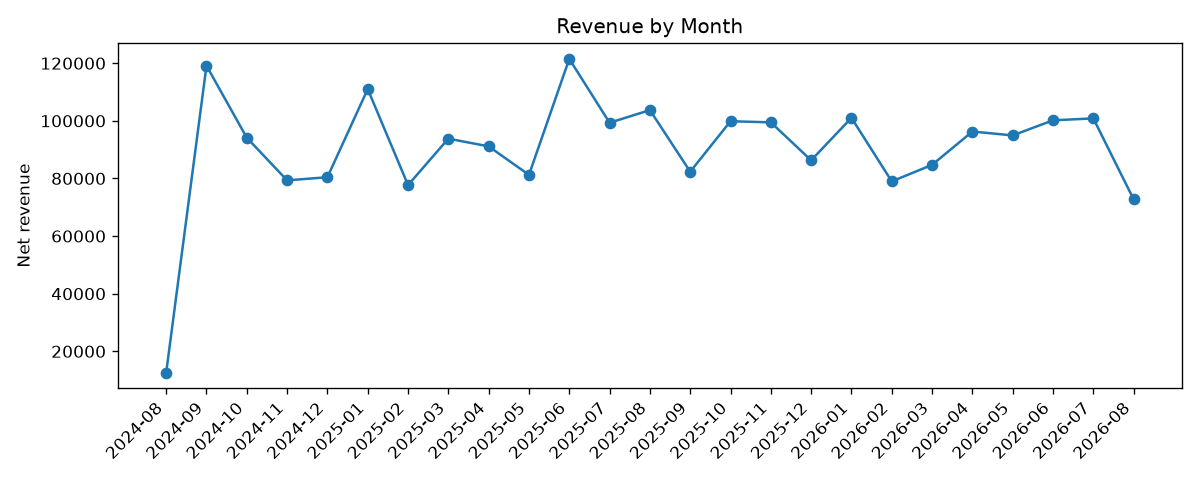
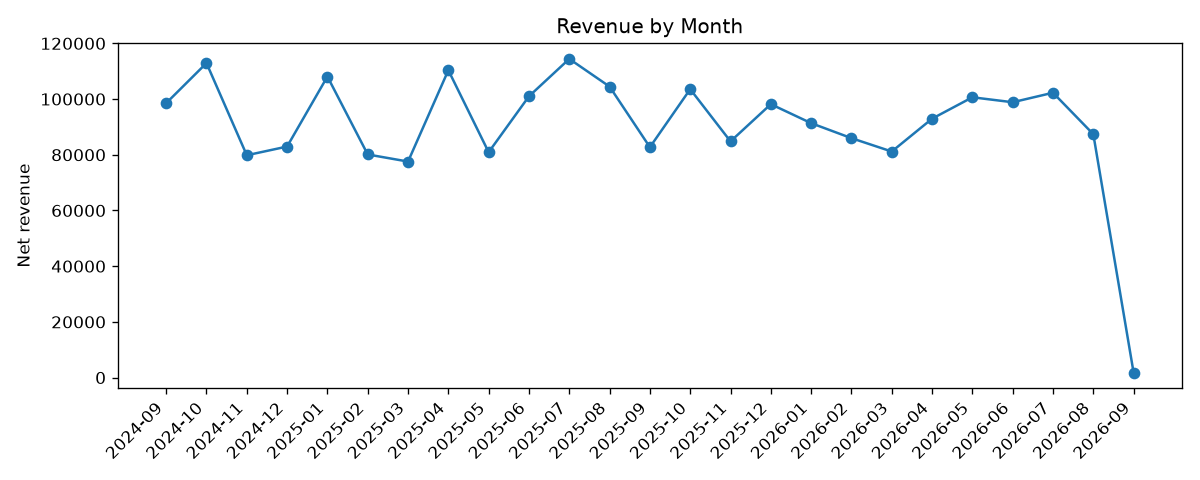
chore: quick polish pass

diff --git a/src/load.py b/src/load.py
@@ -18,10 +18,8 @@ class Loader:
         self.duckdb_path = duckdb_path
 
     def create_schema(self, connection):
-        # Drop child before parents, then recreate from the schema script,
-        # so tables are always empty before the load - DuckDB won't allow
-        # deleting dimension rows still referenced by fact_sales, even
-        # after fact_sales itself was just cleared in the same transaction.
+        # drop child before parents, then recreate - DuckDB won't let you
+        # delete a dim row still referenced by fact_sales, even mid-transaction
         connection.execute("DROP TABLE IF EXISTS fact_sales")
         for table_name in DIMENSION_TABLES:
             connection.execute(f"DROP TABLE IF EXISTS {table_name}")
@@ -29,21 +27,15 @@ class Loader:
         connection.execute(schema_sql)
 
     def _create_indexes(self, connection):
-        # Built after the load, not before: an index gets updated on every
-        # insert, so indexing empty tables and then bulk-loading is cheaper
-        # than maintaining the index across thousands of individual inserts.
+        # built after the load - cheaper than updating the index on every insert
         connection.execute("CREATE INDEX IF NOT EXISTS idx_fact_date ON fact_sales(date_key)")
         connection.execute("CREATE INDEX IF NOT EXISTS idx_fact_product ON fact_sales(product_key)")
         connection.execute("CREATE INDEX IF NOT EXISTS idx_fact_customer ON fact_sales(customer_key)")
         connection.execute("CREATE INDEX IF NOT EXISTS idx_fact_channel ON fact_sales(channel_key)")
 
     def load_all(self, dim_date, dim_product, dim_customer, dim_channel, fact_sales):
-        """
-        Load every table into DuckDB inside a single transaction, so the
-        warehouse either ends up fully updated or not touched at all - if
-        anything fails partway through, we roll back instead of leaving
-        old and new data mixed together.
-        """
+        # everything happens in one transaction - either it all loads, or
+        # nothing does, no half-updated warehouse
         dimension_frames = {
             "dim_date": dim_date,
             "dim_product": dim_product,

diff --git a/src/extract.py b/src/extract.py
@@ -19,8 +19,7 @@ class Extractor:
         self.sqlite_path = sqlite_path
 
     def _read_table(self, table_name):
-        # New connection per call - sqlite3 connections aren't safe to
-        # share across threads, and extract_all() calls this from a pool.
+        # new connection per call, sqlite3 connections aren't thread-safe
         connection = sqlite3.connect(self.sqlite_path)
         try:
             dataframe = pd.read_sql(f"SELECT * FROM {table_name}", connection)
@@ -47,17 +46,8 @@ class Extractor:
         return self._read_table("order_items")
 
     def extract_all(self):
-        """
-        Read all six tables at once using a thread pool.
-
-        This helps because reading from SQLite is I/O-bound - most of the
-        time a thread spends here is waiting on disk, not running Python.
-        CPython releases the GIL while a thread waits on I/O, so the reads
-        overlap instead of running one after another. This wouldn't help
-        for CPU-bound work (e.g. crunching numbers in a loop), since the
-        GIL only lets one thread run Python bytecode at a time - that case
-        would need multiprocessing instead.
-        """
+        # reads are I/O-bound (waiting on SQLite), so threads help here
+        # even with the GIL - wouldn't be true for CPU-bound work
         results = {}
         with ThreadPoolExecutor(max_workers=len(TABLE_NAMES)) as executor:
             future_to_table = {

diff --git a/src/transform.py b/src/transform.py
@@ -33,10 +33,7 @@ class Transformer:
         return pd.DataFrame(rows)
 
     def build_dim_product(self, products_df, categories_df):
-        """
-        Pull the category name onto each product row (denormalization),
-        so sales can later be grouped by category with no extra JOIN.
-        """
+        # denormalize: copy the category name onto the product row
         categories_renamed = categories_df.rename(columns={"name": "category"})
         merged = products_df.merge(categories_renamed, on="category_id", how="left")
 
@@ -55,14 +52,8 @@ class Transformer:
         return dim_channel
 
     def build_fact_sales(self, order_items_df, orders_df, dim_date, dim_product, dim_customer, dim_channel):
-        """
-        One row per order_item, with dimension keys and the sales measures.
-        Only "completed" orders count as sales - pending/cancelled orders
-        aren't real revenue.
-        """
+        # only completed orders count as sales
         completed_orders = orders_df[orders_df["status"] == "completed"]
-
-        # inner join also drops order_items whose order wasn't completed
         fact = order_items_df.merge(completed_orders, on="order_id", how="inner")
 
         fact["date_key"] = pd.to_datetime(fact["order_date"]).dt.strftime("%Y%m%d").astype(int)

diff --git a/data/generate_data.py b/data/generate_data.py
@@ -194,7 +194,6 @@ def insert_customers(connection, num_customers):
 
 
 def insert_products(connection, num_products, category_ids):
-    """Insert random products and return a lookup list needed later for order_items."""
     cursor = connection.cursor()
     products = []
     for product_id in range(1, num_products + 1):
@@ -228,7 +227,6 @@ def insert_products(connection, num_products, category_ids):
 
 
 def insert_orders_and_items(connection, num_orders, customer_ids, channel_ids, products):
-    """Insert random orders, each with 1-4 order_items, spread over the last 2 years."""
     cursor = connection.cursor()
     today = date.today()
     two_years_ago = today - timedelta(days=730)
@@ -268,7 +266,6 @@ def insert_orders_and_items(connection, num_orders, customer_ids, channel_ids, p
 
 
 def export_tables_to_csv(connection, csv_dir):
-    """Write every OLTP table to its own CSV file in csv_dir."""
     csv_dir.mkdir(parents=True, exist_ok=True)
     table_names = ["categories", "channels", "customers", "products", "orders", "order_items"]
 

diff --git a/src/ai_insights.py b/src/ai_insights.py
@@ -21,12 +21,9 @@ MAX_ROWS_PER_QUERY = 40
 
 
 def load_queries():
-    """Parse analytics_queries.sql into a list of (label, sql) pairs.
-
-    Queries in the file are separated by a blank line before and after, so
-    splitting on a double blank line gives one block per query. The file's
-    own header comment (no SQL in it) has no SELECT and gets skipped.
-    """
+    # queries in the file are separated by a blank line, so splitting on
+    # that gives one block per query (the file's header comment has no
+    # SQL in it and gets skipped below)
     text = ANALYTICS_QUERIES_PATH.read_text()
     blocks = [block.strip() for block in text.split("\n\n\n") if block.strip()]
 
